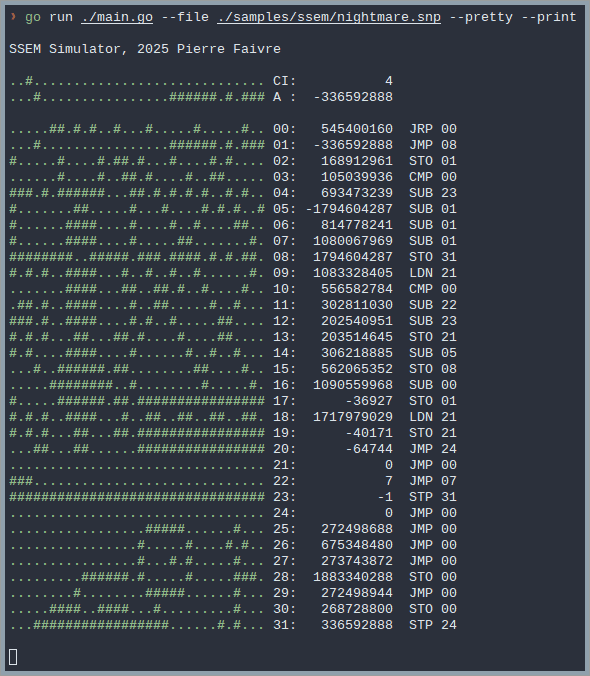
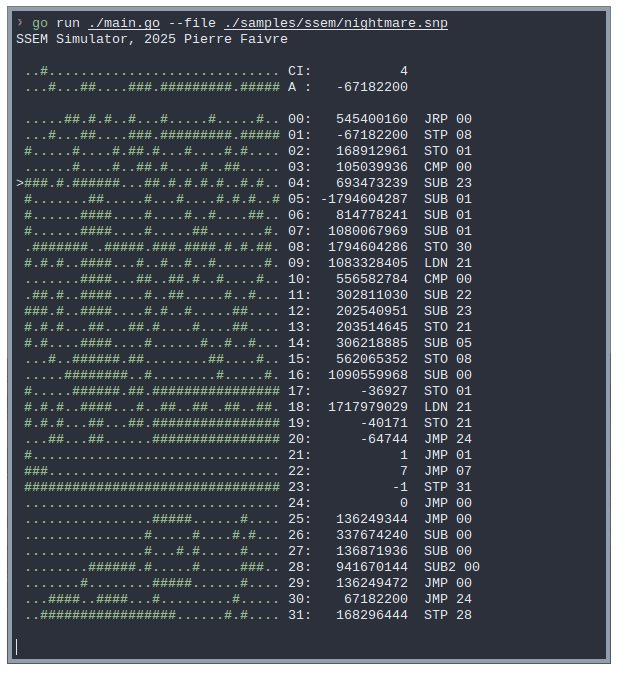
Separated compute and display in goroutines
Printing the machine is now independant to the execution speed. This allows to efficiently run it at high speed while diplaying it.

diff --git a/ssem/simulator_test.go b/ssem/simulator_test.go
@@ -3,6 +3,7 @@ package ssem
 import (
 	"strconv"
 	"testing"
+	"time"
 )
 
 func storeFromSnapshot(snp []string) Store {
@@ -90,9 +91,17 @@ func TestFunctionalAll(t *testing.T) {
 	s := NewSsem()
 	s.store = initial_store
 	s.StopFlag = false
-	s.Run(131)
-	if s.store != expected_store {
-		t.Errorf("failed Combined Functions Test")
+	cyclesChan := make(chan uint)
+
+	go s.Run(cyclesChan, 131, 0)
+
+	select {
+	case <-cyclesChan:
+		if s.store != expected_store {
+			t.Errorf("failed Combined Functions Test")
+		}
+	case <-time.After(3 * time.Second):
+		t.Fatal("combined Functions Test timed out")
 	}
 }
 
@@ -170,9 +179,17 @@ func TestFunctionalCmp1(t *testing.T) {
 	s := NewSsem()
 	s.store = initial_store
 	s.StopFlag = false
-	s.Run(300)
-	if s.store != expected_store {
-		t.Errorf("failed CMP1 Test")
+	cyclesChan := make(chan uint)
+
+	go s.Run(cyclesChan, 300, 0)
+
+	select {
+	case <-cyclesChan:
+		if s.store != expected_store {
+			t.Errorf("failed CMP1 Test")
+		}
+	case <-time.After(3 * time.Second):
+		t.Fatal("CMP1 Test timed out")
 	}
 }
 
@@ -250,9 +267,17 @@ func TestFunctionalCmp2(t *testing.T) {
 	s := NewSsem()
 	s.store = initial_store
 	s.StopFlag = false
-	s.Run(300)
-	if s.store != expected_store {
-		t.Errorf("failed CMP2 Test")
+	cyclesChan := make(chan uint)
+
+	go s.Run(cyclesChan, 300, 0)
+
+	select {
+	case <-cyclesChan:
+		if s.store != expected_store {
+			t.Errorf("failed CMP2 Test")
+		}
+	case <-time.After(3 * time.Second):
+		t.Fatal("CMP2 Test timed out")
 	}
 }
 
@@ -330,9 +355,17 @@ func TestFunctionalJmp1(t *testing.T) {
 	s := NewSsem()
 	s.store = initial_store
 	s.StopFlag = false
-	s.Run(31)
-	if s.store != expected_store {
-		t.Errorf("failed JMP1 Test")
+	cyclesChan := make(chan uint)
+
+	go s.Run(cyclesChan, 31, 0)
+
+	select {
+	case <-cyclesChan:
+		if s.store != expected_store {
+			t.Errorf("failed JMP1 Test")
+		}
+	case <-time.After(3 * time.Second):
+		t.Fatal("JMP1 Test timed out")
 	}
 }
 
@@ -411,9 +444,17 @@ func TestFunctionalJrp1(t *testing.T) {
 	s := NewSsem()
 	s.store = initial_store
 	s.StopFlag = false
-	s.Run(30)
-	if s.store != expected_store {
-		t.Errorf("failed JRP1 Test")
+	cyclesChan := make(chan uint)
+
+	go s.Run(cyclesChan, 30, 0)
+
+	select {
+	case <-cyclesChan:
+		if s.store != expected_store {
+			t.Errorf("failed JRP1 Test")
+		}
+	case <-time.After(3 * time.Second):
+		t.Fatal("JRP1 Test timed out")
 	}
 }
 
@@ -585,9 +626,17 @@ func TestFunctionalSto1(t *testing.T) {
 	s := NewSsem()
 	s.store = initial_store
 	s.StopFlag = false
-	s.Run(29)
-	if s.store != expected_store {
-		t.Errorf("failed STO1 Test")
+	cyclesChan := make(chan uint)
+
+	go s.Run(cyclesChan, 29, 0)
+
+	select {
+	case <-cyclesChan:
+		if s.store != expected_store {
+			t.Errorf("failed STO1 Test")
+		}
+	case <-time.After(3 * time.Second):
+		t.Fatal("STO1 Test timed out")
 	}
 }
 
@@ -665,9 +714,17 @@ func TestFunctionalSto2(t *testing.T) {
 	s := NewSsem()
 	s.store = initial_store
 	s.StopFlag = false
-	s.Run(29)
-	if s.store != expected_store {
-		t.Errorf("failed STO2 Test")
+	cyclesChan := make(chan uint)
+
+	go s.Run(cyclesChan, 29, 0)
+
+	select {
+	case <-cyclesChan:
+		if s.store != expected_store {
+			t.Errorf("failed STO2 Test")
+		}
+	case <-time.After(3 * time.Second):
+		t.Fatal("STO2 Test timed out")
 	}
 }
 
@@ -809,9 +866,17 @@ func TestFunctionalFactorct(t *testing.T) {
 	s := NewSsem()
 	s.store = initial_store
 	s.StopFlag = false
-	s.Run(100000000)
-	if s.store[27] != 131072 {
-		t.Errorf("failed TestFunctionalFactorct")
+	cyclesChan := make(chan uint)
+
+	go s.Run(cyclesChan, 100000000, 0)
+
+	select {
+	case <-cyclesChan:
+		if s.store[27] != 131072 {
+			t.Errorf("failed TestFunctionalFactorct")
+		}
+	case <-time.After(3 * time.Second):
+		t.Fatal("TestFunctionalFactorct timed out")
 	}
 }
 
@@ -863,7 +928,16 @@ func BenchmarkFactorct(b *testing.B) {
 	s := NewSsem()
 	s.store = initial_store
 	s.StopFlag = false
-	s.Run(100000000)
+	cyclesChan := make(chan uint)
+
+	go s.Run(cyclesChan, 100000000, 0)
+
+	select {
+	case <-cyclesChan:
+		return
+	case <-time.After(3 * time.Second):
+		b.Fatal("BenchmarkFactorct timed out")
+	}
 }
 
 func BenchmarkNightmare(b *testing.B) {
@@ -905,5 +979,14 @@ func BenchmarkNightmare(b *testing.B) {
 	s := NewSsem()
 	s.store = initial_store
 	s.StopFlag = false
-	s.Run(100000000)
+	cyclesChan := make(chan uint)
+
+	go s.Run(cyclesChan, 100000000, 0)
+
+	select {
+	case <-cyclesChan:
+		return
+	case <-time.After(1 * time.Minute): // TODO: check why it does not always time out here
+		b.Fatal("BenchmarkNightmare timed out")
+	}
 }

diff --git a/ssem/simulator.go b/ssem/simulator.go
@@ -43,14 +43,14 @@ func NewSsem() *Ssem {
 }
 
 func (s Ssem) String() string {
-	builder := strings.Builder{} // TODO: consider defining a long living builder to avoid constant allocation
-	builder.Grow(4096)           // takes around 2427 bytes to print the store
+	builder := strings.Builder{} // TODO: consider defining a long living buffer to avoid constant allocation
+	builder.Grow(4096)           // takes around 2461 bytes to print the store
 	builder.WriteRune(' ')
 	AppendBinary(&builder, s.ci)
 	builder.WriteString(fmt.Sprintf(" CI: %11d\n ", s.ci))
 	AppendBinary(&builder, s.a)
 	builder.WriteString(fmt.Sprintf(" A : %11d\n\n", s.a))
-	builder.WriteString(s.store.String(s.ci))
+	s.store.Write(&builder, s.ci)
 	return builder.String()
 }
 
@@ -236,28 +236,32 @@ func (s *Ssem) Execute(opcode Opcode, data Word) {
 
 // Run the machine until STP is encountered or the given amount of cycles is reached.
 // Returns the number of cycles executed.
-func (s *Ssem) Run(maxCycles uint) (uint, error) {
+func (s *Ssem) Run(cyclesChan chan uint, maxCycles uint, cyclesPerSec uint) {
 	var i uint
 
-	for i = 0; i < maxCycles && !s.StopFlag; i++ {
-		s.InstructionCycle()
+	if cyclesPerSec > 0 {
+		sleepDuration := 1000 / time.Duration(cyclesPerSec) * time.Millisecond
+		for i = 0; i < maxCycles && !s.StopFlag; i++ {
+			s.InstructionCycle()
+			time.Sleep(sleepDuration)
+		}
+	} else {
+		for i = 0; i < maxCycles && !s.StopFlag; i++ {
+			s.InstructionCycle()
+		}
 	}
 
-	return i, nil
+	s.StopFlag = true
+	cyclesChan <- i
 }
 
-// Run the machine until STP is encountered or the given amount of cycles is reached.
-// At each cycle, the memory is printed and execution pauses shortly.
-// Returns the number of cycles executed.
-func (s *Ssem) RunAndPrint(maxCycles uint) (uint, error) {
-	var i uint
-
-	for i = 0; i < maxCycles && !s.StopFlag; i++ {
-		s.InstructionCycle()
+// Prints the machine repeatedly. Stops when the machine is stopped.
+func (s *Ssem) Printer(stopChan chan bool) {
+	for !s.StopFlag {
 		fmt.Print(strings.Repeat("\033[A", 36)) // Print over the last one. TODO: can be optimised
 		fmt.Println(s)
-		time.Sleep(5 * time.Millisecond)
+		time.Sleep(1000 / 60 * time.Millisecond)
 	}
 
-	return i, nil
+	stopChan <- true
 }

diff --git a/main.go b/main.go
@@ -4,9 +4,11 @@ import (
 	"flag"
 	"fmt"
 	"os"
+	"os/signal"
 	"path/filepath"
 	"pfaivre/ssem-simulator-go/ssem"
 	"strings"
+	"syscall"
 )
 
 func main() {
@@ -14,9 +16,9 @@ func main() {
 	fmt.Println()
 
 	filePath := flag.String("file", "", "Path to an asm or snp file to load")
-	pretty := flag.Bool("pretty", false, "Improve readability when printing the store")
-	printFlag := flag.Bool("print", false, "Print the store at every cycle with a small pause")
-	maxCycles := flag.Uint("max-cycles", 1000, "Maximum number of cycles to execute")
+	pretty := flag.Bool("pretty", true, "Improve readability when printing the store")
+	cyclesPerSec := flag.Uint("speed", 700, "Approximate target of number of instructions to execute per second. Set 0 for no limit.")
+	maxCycles := flag.Uint("max-cycles", 10000, "Maximum number of cycles to execute")
 	flag.Parse()
 
 	machine := ssem.NewSsem()
@@ -47,19 +49,25 @@ func main() {
 
 	fmt.Println(machine)
 
-	var cycles uint
-	var err error
+	cyclesChan := make(chan uint)
+	stopChan := make(chan bool)
+	signalChan := make(chan os.Signal, 1)
+	signal.Notify(signalChan, os.Interrupt, syscall.SIGTERM)
 
-	if *printFlag {
-		cycles, err = machine.RunAndPrint(*maxCycles)
-	} else {
-		fmt.Printf("Computing up to %d cycles...\n\n", *maxCycles)
-		cycles, err = machine.Run(*maxCycles)
-	}
-	if err != nil {
-		fmt.Fprintf(os.Stderr, "%s\n", err)
-		os.Exit(1)
-	}
-	fmt.Println(machine)
+	go machine.Run(cyclesChan, *maxCycles, *cyclesPerSec)
+	go machine.Printer(stopChan)
+
+	go func() {
+		s := <-signalChan
+		fmt.Printf("Received %s signal, terminating\n", s)
+		machine.StopFlag = true
+		cycles := <-cyclesChan
+		fmt.Printf("Stopped after %d cycles\n", cycles)
+		os.Exit(0)
+	}()
+
+	cycles := <-cyclesChan
+	<-stopChan
+
 	fmt.Printf("Stopped after %d cycles\n", cycles)
 }

diff --git a/ssem/store.go b/ssem/store.go
@@ -43,21 +43,17 @@ func (s *Store) DecodeInstruction(address Word) (Opcode, Word) {
 	return Opcode(opcode), Word(data)
 }
 
-func (s Store) String(ci Word) string {
-	builder := strings.Builder{}
-	builder.Grow(4096) // takes approximately 2304 bytes to print the store
+func (s Store) Write(b *strings.Builder, ci Word) {
 	for i, w := range s {
 		if i == int(ci) {
-			builder.WriteRune('>')
+			b.WriteRune('>')
 		} else {
-			builder.WriteRune(' ')
+			b.WriteRune(' ')
 		}
-		AppendBinary(&builder, w)
+		AppendBinary(b, w)
 		o, d := s.DecodeInstruction(Word(i))
-		builder.WriteString(fmt.Sprintf(" %02d: %11d  %s %02d   \n", i, w, o, d))
+		fmt.Fprintf(b, " %02d: %11d  %s %02d   \n", i, w, o, d)
 	}
-
-	return builder.String()
 }
 
 var BinaryDigitReplacer = strings.NewReplacer()

diff --git a/README.md b/README.md
@@ -9,7 +9,7 @@ This program aims at simulating accurately the SSEM in its execution, while allo
 # Test it
 
 ```sh
-go run ./main.go --file ./samples/ssem/nightmare.snp --pretty --print
+go run ./main.go --file ./samples/ssem/nightmare.snp
 ```
 ![Screenshot](docs/screenshot.png)
 
@@ -29,6 +29,7 @@ go run ./main.go --file ./samples/ssem/nightmare.snp --pretty --print
 - [ ] Interactive interface
   - [x] Base interface
   - [x] Display modes
+  - [x] Goroutines for compute and display
   - [ ] User input
   - [ ] Scroll in store with arrows when terminal is too small
 - [ ] Improve interactive interface
